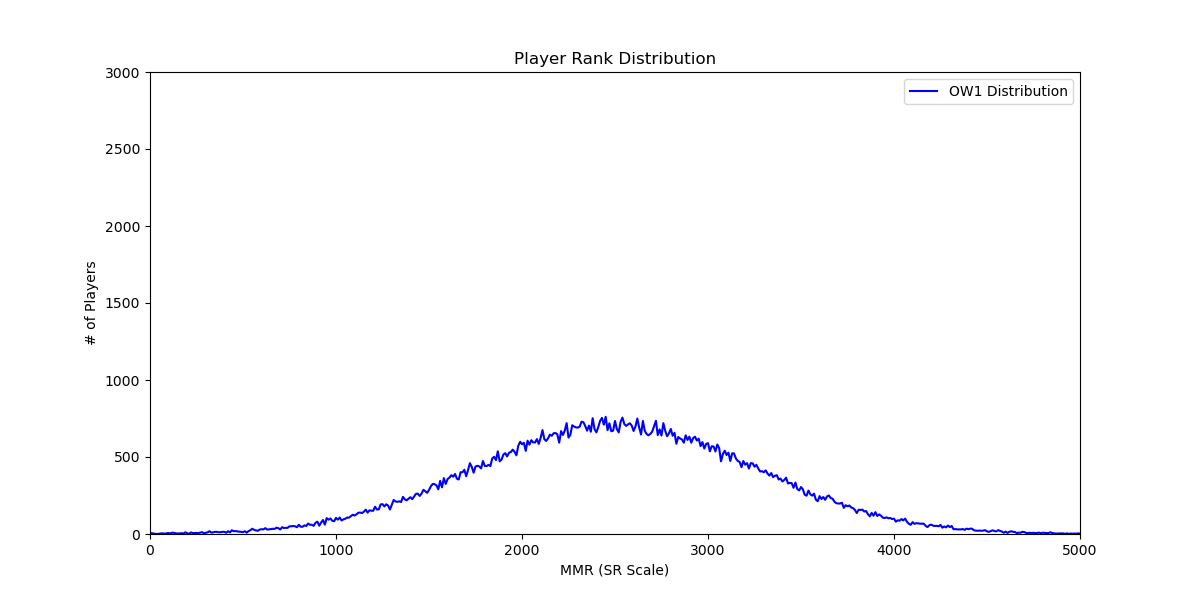
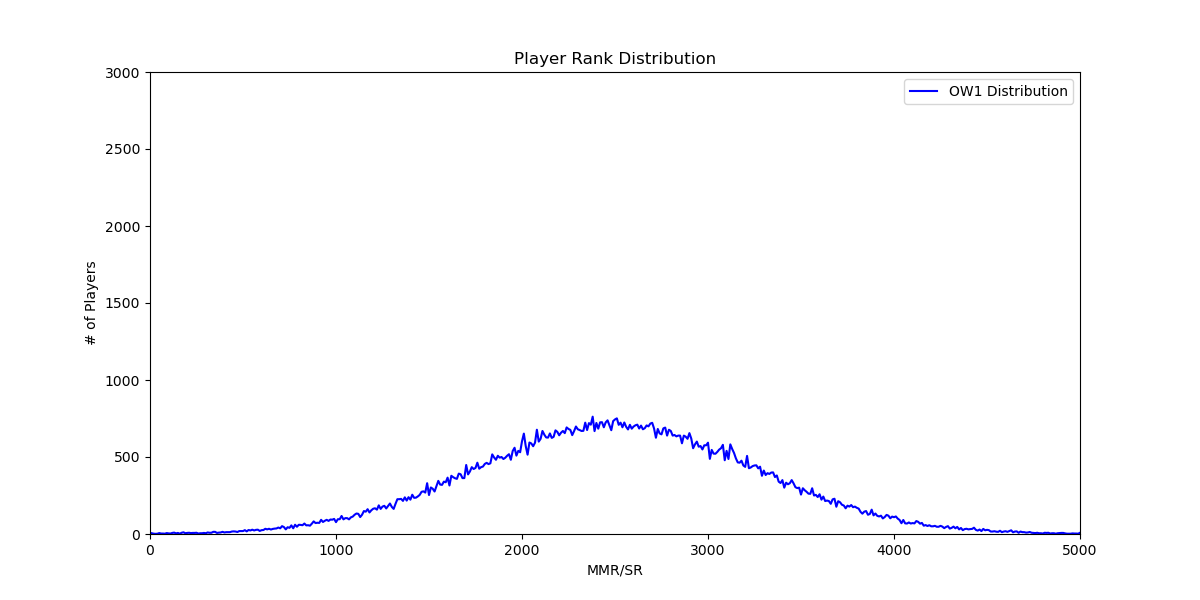
Adding simple graph

diff --git a/mmr_distribution/simple_view.py b/mmr_distribution/simple_view.py
@@ -1,0 +1,105 @@
+import matplotlib.pyplot as plt
+import numpy as np
+
+width = 0.5
+
+fig = plt.figure(figsize=(12, 6))
+
+labels = ('OW1', 'New Players', 'OW2', 'OW2 Settled')
+y_pos = np.arange(3)
+
+plt.subplot(2, 1, 2)
+# Bronze
+plt.barh(labels[0], 5, color='brown', label='Bronze (0-5%)', height=width)  # OW2
+# Silver
+plt.barh(labels[0], 15, color='silver', label='Silver (5-20%)', left=5, height=width)  # OW1
+# Gold
+plt.barh(labels[0], 30, color='gold', label='Gold (20-50%)', left=20, height=width)  # OW1
+# Plat
+plt.barh(labels[0], 30, color='teal', label='Plat (50-80%)', left=50, height=width)  # OW1
+# Diamond
+plt.barh(labels[0], 12, color='purple', label='Diamond (80-92%)', left=80, height=width)  # OW1
+# Masters
+plt.barh(labels[0], 5.5, color='red', label='Masters (92-97.5%)', left=92, height=width)  # OW1
+# GM
+plt.barh(labels[0], 2.5, color='green', label='GM (97.5-100%)', left=97.5, height=width)  # OW1
+
+# New Players
+plt.barh(labels[1], 30, color='brown', label='Bronze', height=width, left=0)  # New Players
+plt.barh(labels[1], 40, color='silver', label='Silver', height=width, left=30)  # New Players
+plt.barh(labels[1], 30, color='gold', label='Gold', height=width, left=70)  # New Players
+
+# OW2
+# Bronze
+plt.barh(labels[2], 35, color='brown', label='Bronze', height=width)
+# Silver
+plt.barh(labels[2], 55, color='silver', label='Silver', left=35, height=width)
+# Gold
+plt.barh(labels[2], 60, color='gold', label='Gold', left=90, height=width)
+# Plat
+plt.barh(labels[2], 30, color='teal', label='Plat', left=150, height=width)
+# Diamond
+plt.barh(labels[2], 12, color='purple', label='Diamond', left=180, height=width)
+# Masters
+plt.barh(labels[2], 5.5, color='red', label='Masters', left=192, height=width)
+# GM
+plt.barh(labels[2], 2.5, color='green', label='GM', left=197.5, height=width)
+
+plt.xlabel('Players')
+plt.title('Players Per Rank Based On Underlying Skill At Start of OW2')
+# plt.savefig('bar_plot_new_players.png')
+
+# fig = plt.figure(figsize=(12, 6))
+plt.subplot(2, 1, 1)
+
+# OW2
+# Bronze
+plt.barh(labels[2], 35, color='brown', label='Bronze', height=width)
+# Silver
+plt.barh(labels[2], 55, color='silver', label='Silver', left=35, height=width)
+# Gold
+plt.barh(labels[2], 60, color='gold', label='Gold', left=90, height=width)
+# Plat
+plt.barh(labels[2], 30, color='teal', label='Plat', left=150, height=width)
+# Diamond
+plt.barh(labels[2], 12, color='purple', label='Diamond', left=180, height=width)
+# Masters
+plt.barh(labels[2], 5.5, color='red', label='Masters', left=192, height=width)
+# GM
+plt.barh(labels[2], 2.5, color='green', label='GM', left=197.5, height=width)
+
+# OW2 Settled
+# Bronze
+plt.barh(labels[3], 10, color='brown', height=width)  # OW2
+# Silver
+plt.barh(labels[3], 30, color='silver', left=10, height=width)  # OW1
+# Gold
+plt.barh(labels[3], 60, color='gold', left=40, height=width)  # OW1
+# Plat
+plt.barh(labels[3], 60, color='teal', left=100, height=width)  # OW1
+# Diamond
+plt.barh(labels[3], 24, color='purple', left=160, height=width)  # OW1
+# Masters
+plt.barh(labels[3], 11, color='red', left=184, height=width)  # OW1
+# GM
+plt.barh(labels[3], 5, color='green', left=195, height=width)  # OW1
+
+plt.vlines(10, -1, 2, colors='k', label='Silver (5-20%)')
+plt.vlines(40, -1, 2, colors='k', label='Gold (20-50%)')
+plt.vlines(100, -1, 2, colors='k', label='Plat (50-80%)')
+plt.vlines(160, -1, 2, colors='k', label='Diamond (80-92%)')
+plt.vlines(184, -1, 2, colors='k', label='Masters (92-97.5%)')
+plt.vlines(195, -1, 2, colors='k', label='GM (97.5-100%)')
+
+plt.text(25, -1, 'Silver (5-20%)', color='k', wrap=True, horizontalalignment='center')
+plt.text(70, -1, 'Gold (20-50%)', color='k', wrap=True, horizontalalignment='center')
+plt.text(130, -1, 'Plat (50-80%)', color='k', wrap=True, horizontalalignment='center')
+plt.text(172, -1, 'Diamond\n(80-92%)', color='k', wrap=True, horizontalalignment='center')
+plt.text(189.5, -1, 'Masters\n(92-97.5%)', color='k', wrap=True, horizontalalignment='center')
+plt.text(205, -1, 'GM\n(97.5+%)', color='k', wrap=True, horizontalalignment='center')
+
+plt.ylim((-.5, 1.5))
+fig.tight_layout(pad=3)
+
+plt.title('Players Per Rank - Settled')
+plt.savefig('ranked_players.png')

diff --git a/mmr_distribution/adding_new_players_to_ow.py b/mmr_distribution/adding_new_players_to_ow.py
@@ -23,7 +23,7 @@ def handle_edge(x):
 
 def build_fig():
     fig = plt.figure(figsize=(12, 6))
-    plt.xlabel('MMR/SR)')
+    plt.xlabel('MMR/SR')
     plt.ylabel('# of Players')
     plt.title('Player Rank Distribution')
     plt.xlim(0, 5000)
